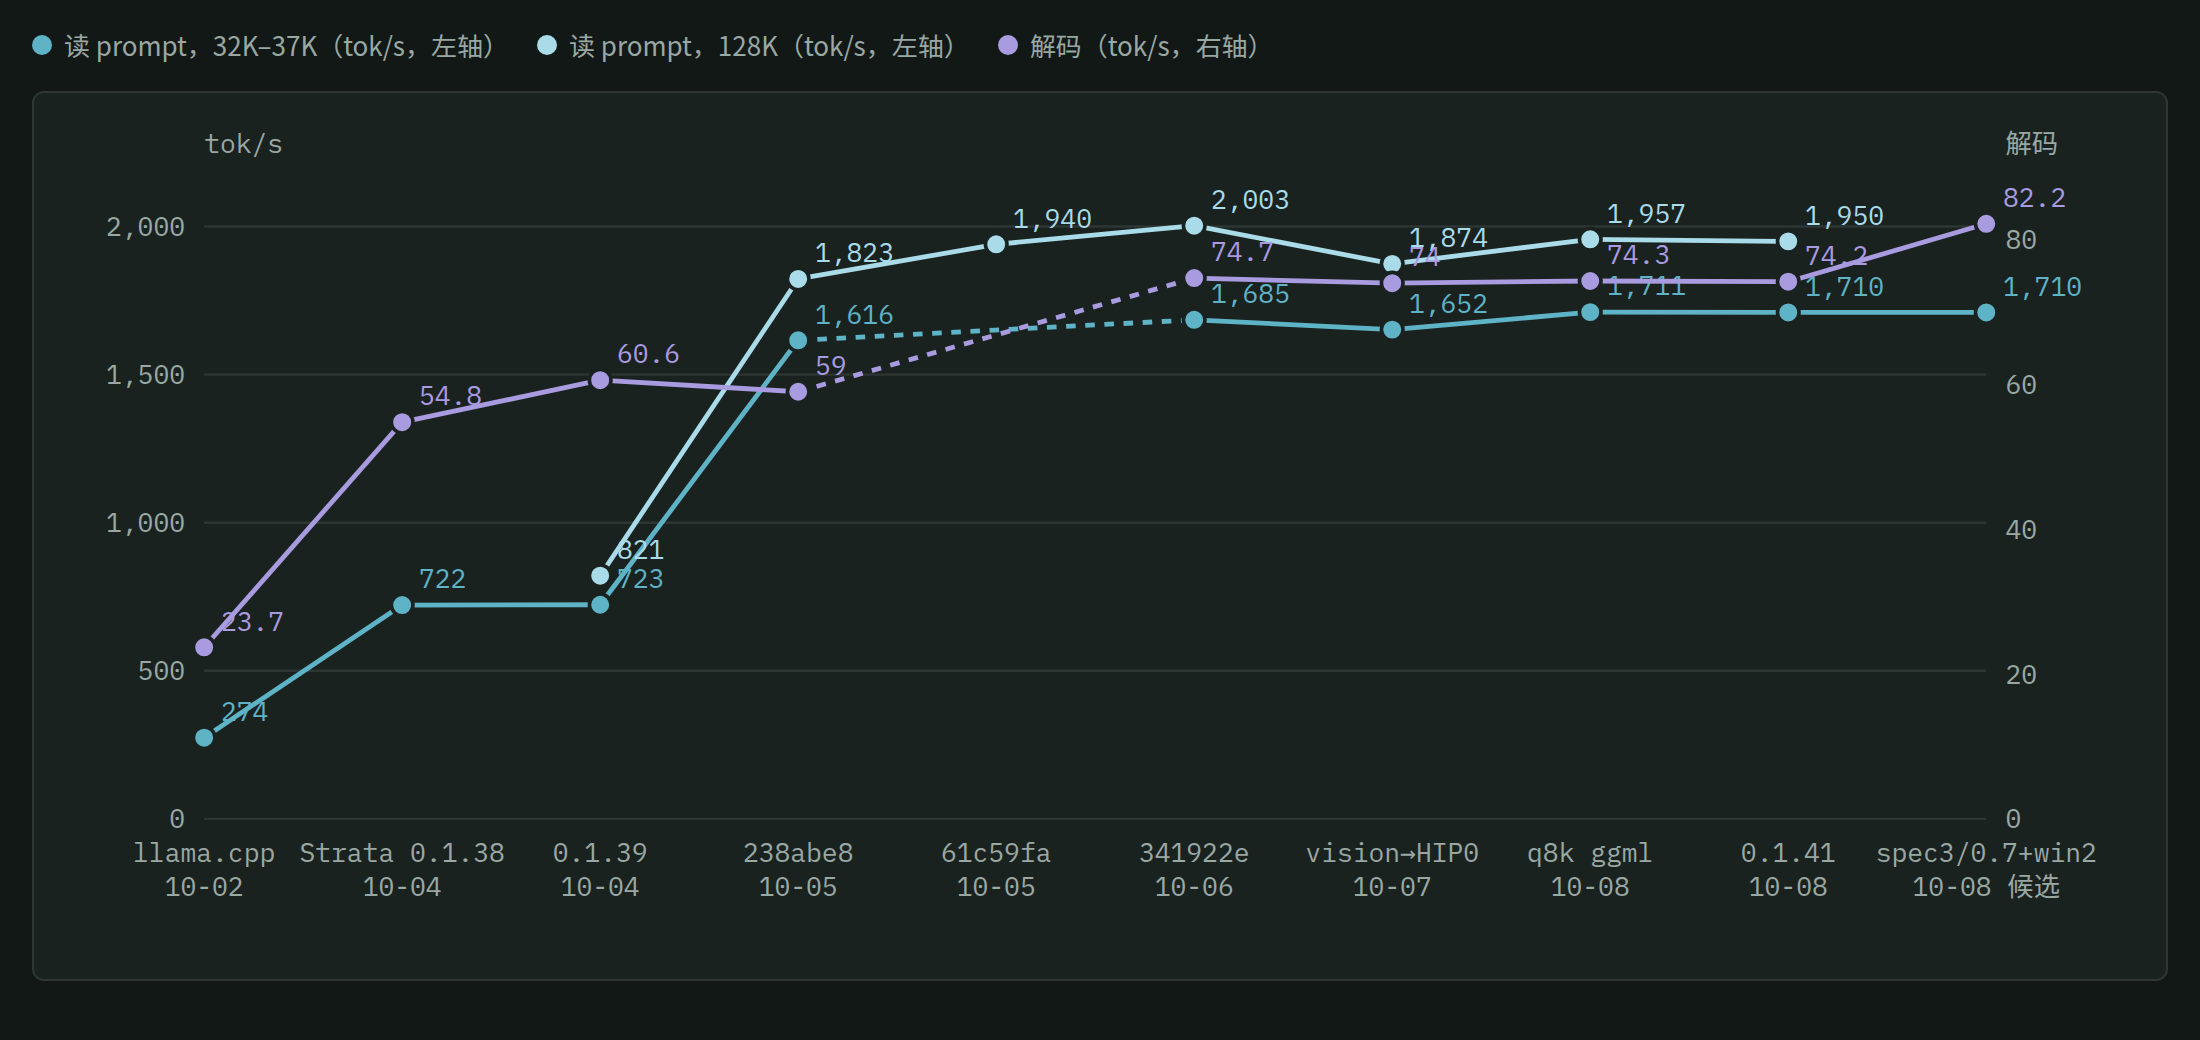
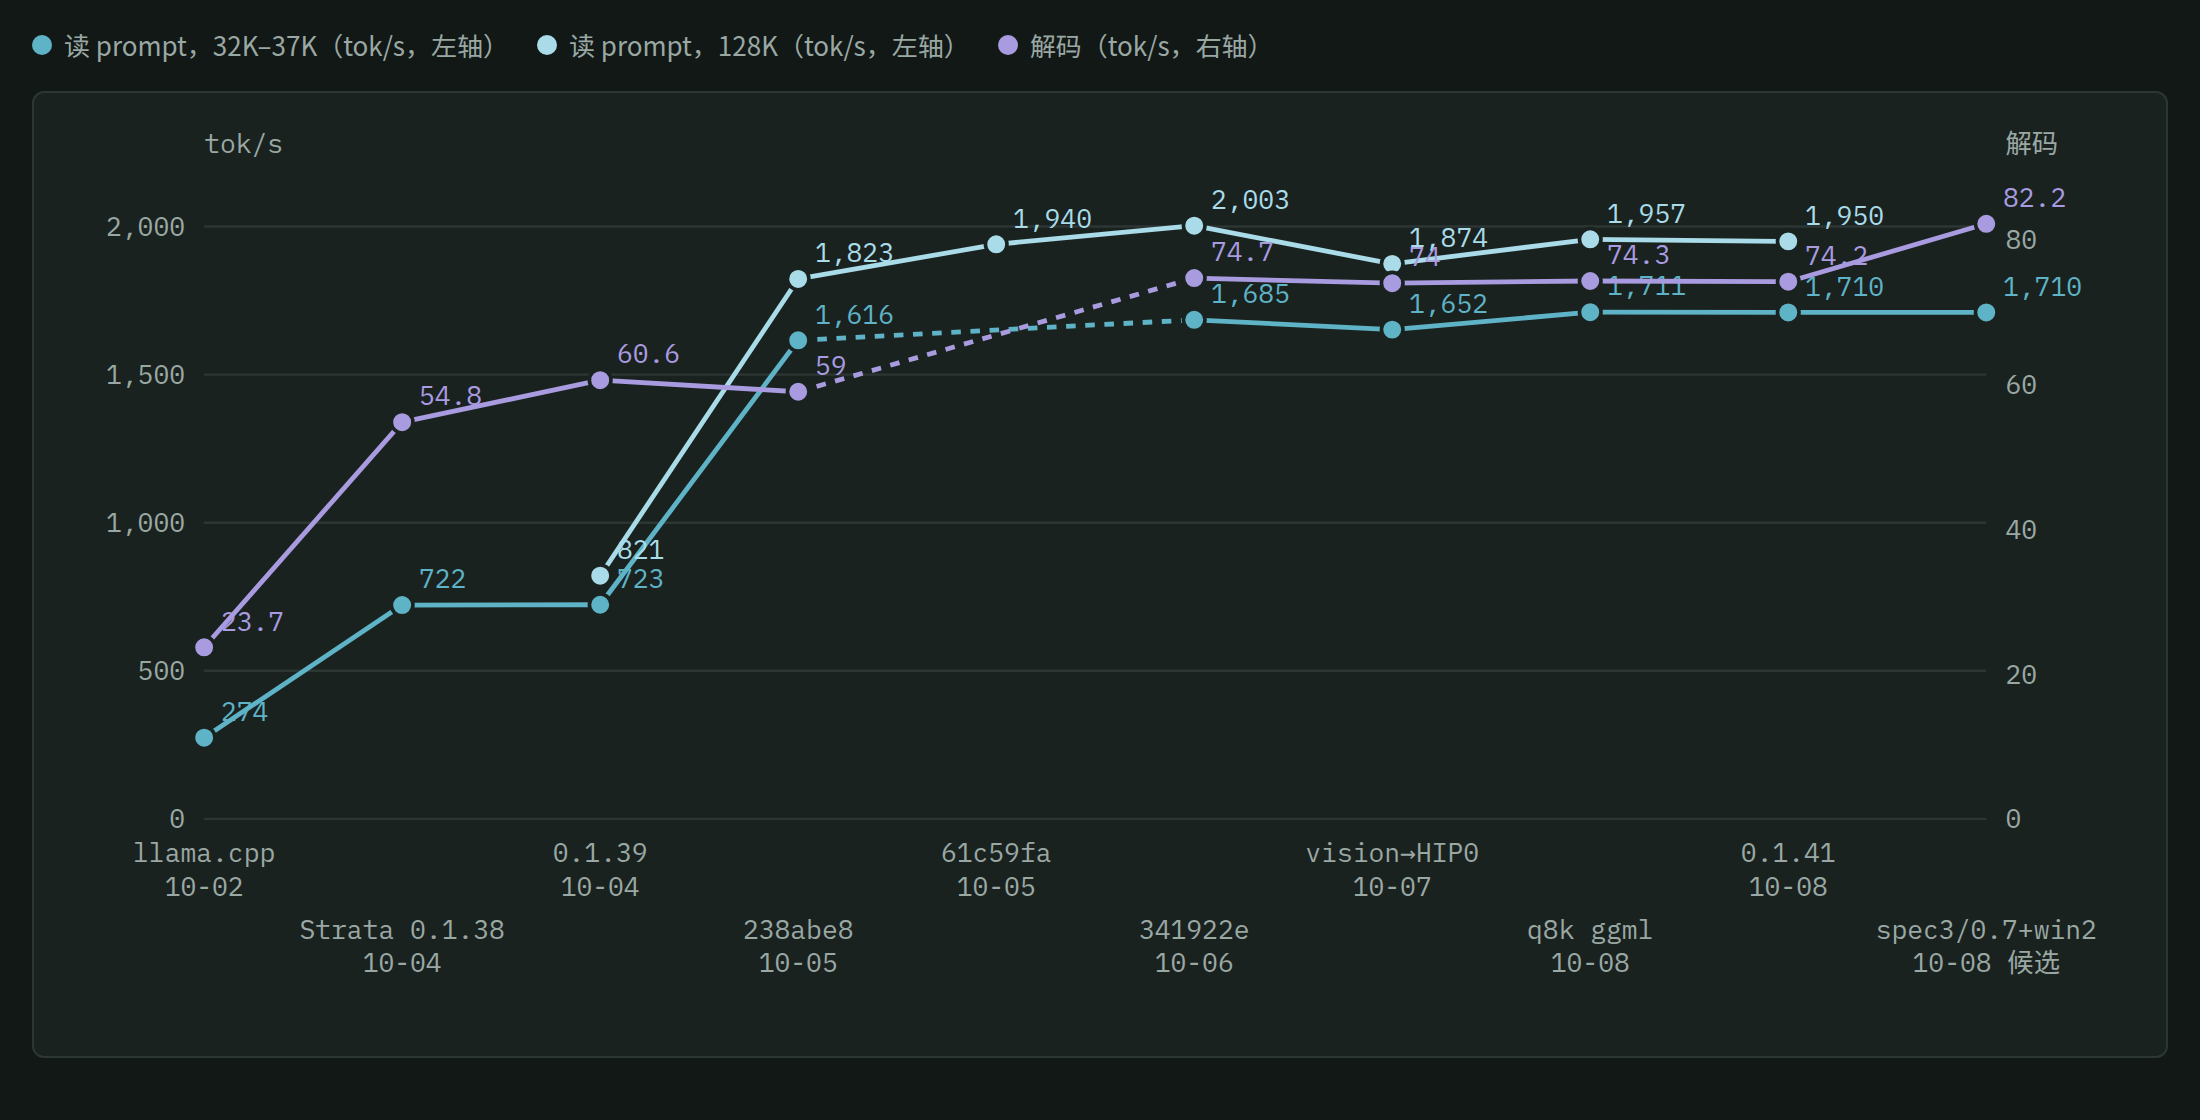
README: status cards image, English-labelled chart for the English README, staggered x-axis labels

diff --git a/index.html b/index.html
@@ -138,13 +138,13 @@ const M=[
   {k:'spec3/0.7+win2\n10-08 候选',p32:1710,p128:null,d:82.2},
 ];
 (function(){
-  const W=860,H=340,L=56,R=60,T=16,B=52;
+  const W=860,H=372,L=56,R=60,T=16,B=84;
   const svg=el('svg',{viewBox:`0 0 ${W} ${H}`});
   const xs=i=>L+(W-L-R)*i/(M.length-1);
   const yl=v=>T+(H-T-B)*(1-v/2200), yr=v=>T+(H-T-B)*(1-v/90);
   [0,500,1000,1500,2000].forEach(v=>{svg.append(el('line',{x1:L,x2:W-R,y1:yl(v),y2:yl(v),stroke:'var(--rule)'}));svg.append(el('text',{x:L-8,y:yl(v)+4,'text-anchor':'end'},v.toLocaleString('en-US')));});
   [0,20,40,60,80].forEach(v=>svg.append(el('text',{x:W-R+8,y:yr(v)+4},String(v))));
-  M.forEach((m,i)=>{m.k.split('\n').forEach((s,j)=>svg.append(el('text',{x:xs(i),y:H-B+18+j*14,'text-anchor':'middle'},s)));});
+  M.forEach((m,i)=>{m.k.split('\n').forEach((s,j)=>svg.append(el('text',{x:xs(i),y:H-B+18+j*14+(i%2)*32,'text-anchor':'middle'},s)));});
   const series=[['p32','var(--l-prompt)',yl],['p128','var(--l-engine)',yl],['d','var(--l-decode)',yr]];
   series.forEach(([key,col,y])=>{
     let last=null;

diff --git a/README.md b/README.md
@@ -3,8 +3,13 @@
 [中文](README.zh-CN.md) · **Interactive timeline: https://xjc10.github.io/dual-6900xt-flash-next-tuning/** (Chinese; every step filterable by line of attack)
 
 <picture>
-  <source media="(prefers-color-scheme: dark)" srcset="docs/speed-chart-dark.png">
-  <img alt="Prompt and decode speed, step by step, llama.cpp 10-02 to Strata 0.1.41 10-08" src="docs/speed-chart-light.png" width="100%">
+  <source media="(prefers-color-scheme: dark)" srcset="docs/now-en-dark.png">
+  <img alt="Production state and speed now" src="docs/now-en-light.png" width="100%">
+</picture>
+
+<picture>
+  <source media="(prefers-color-scheme: dark)" srcset="docs/speed-chart-en-dark.png">
+  <img alt="Prompt and decode speed, step by step, llama.cpp 10-02 to Strata 0.1.41 10-08" src="docs/speed-chart-en-light.png" width="100%">
 </picture>
 
 *Prompt 32K–37K and 128K tok/s (left axis) and decode tok/s (right axis) at each production state. Points come from different experiments under slightly different conditions; the notes under the chart on the interactive page list them. Hollow points = not measured at that step.*

diff --git a/README.zh-CN.md b/README.zh-CN.md
@@ -3,6 +3,11 @@
 [English](README.md) · **交互版时间线：https://xjc10.github.io/dual-6900xt-flash-next-tuning/** （每一步可按思路筛选）
 
 <picture>
+  <source media="(prefers-color-scheme: dark)" srcset="docs/now-zh-dark.png">
+  <img alt="当前生产状态与速度" src="docs/now-zh-light.png" width="100%">
+</picture>
+
+<picture>
   <source media="(prefers-color-scheme: dark)" srcset="docs/speed-chart-dark.png">
   <img alt="Prompt and decode speed, step by step, llama.cpp 10-02 to Strata 0.1.41 10-08" src="docs/speed-chart-light.png" width="100%">
 </picture>
